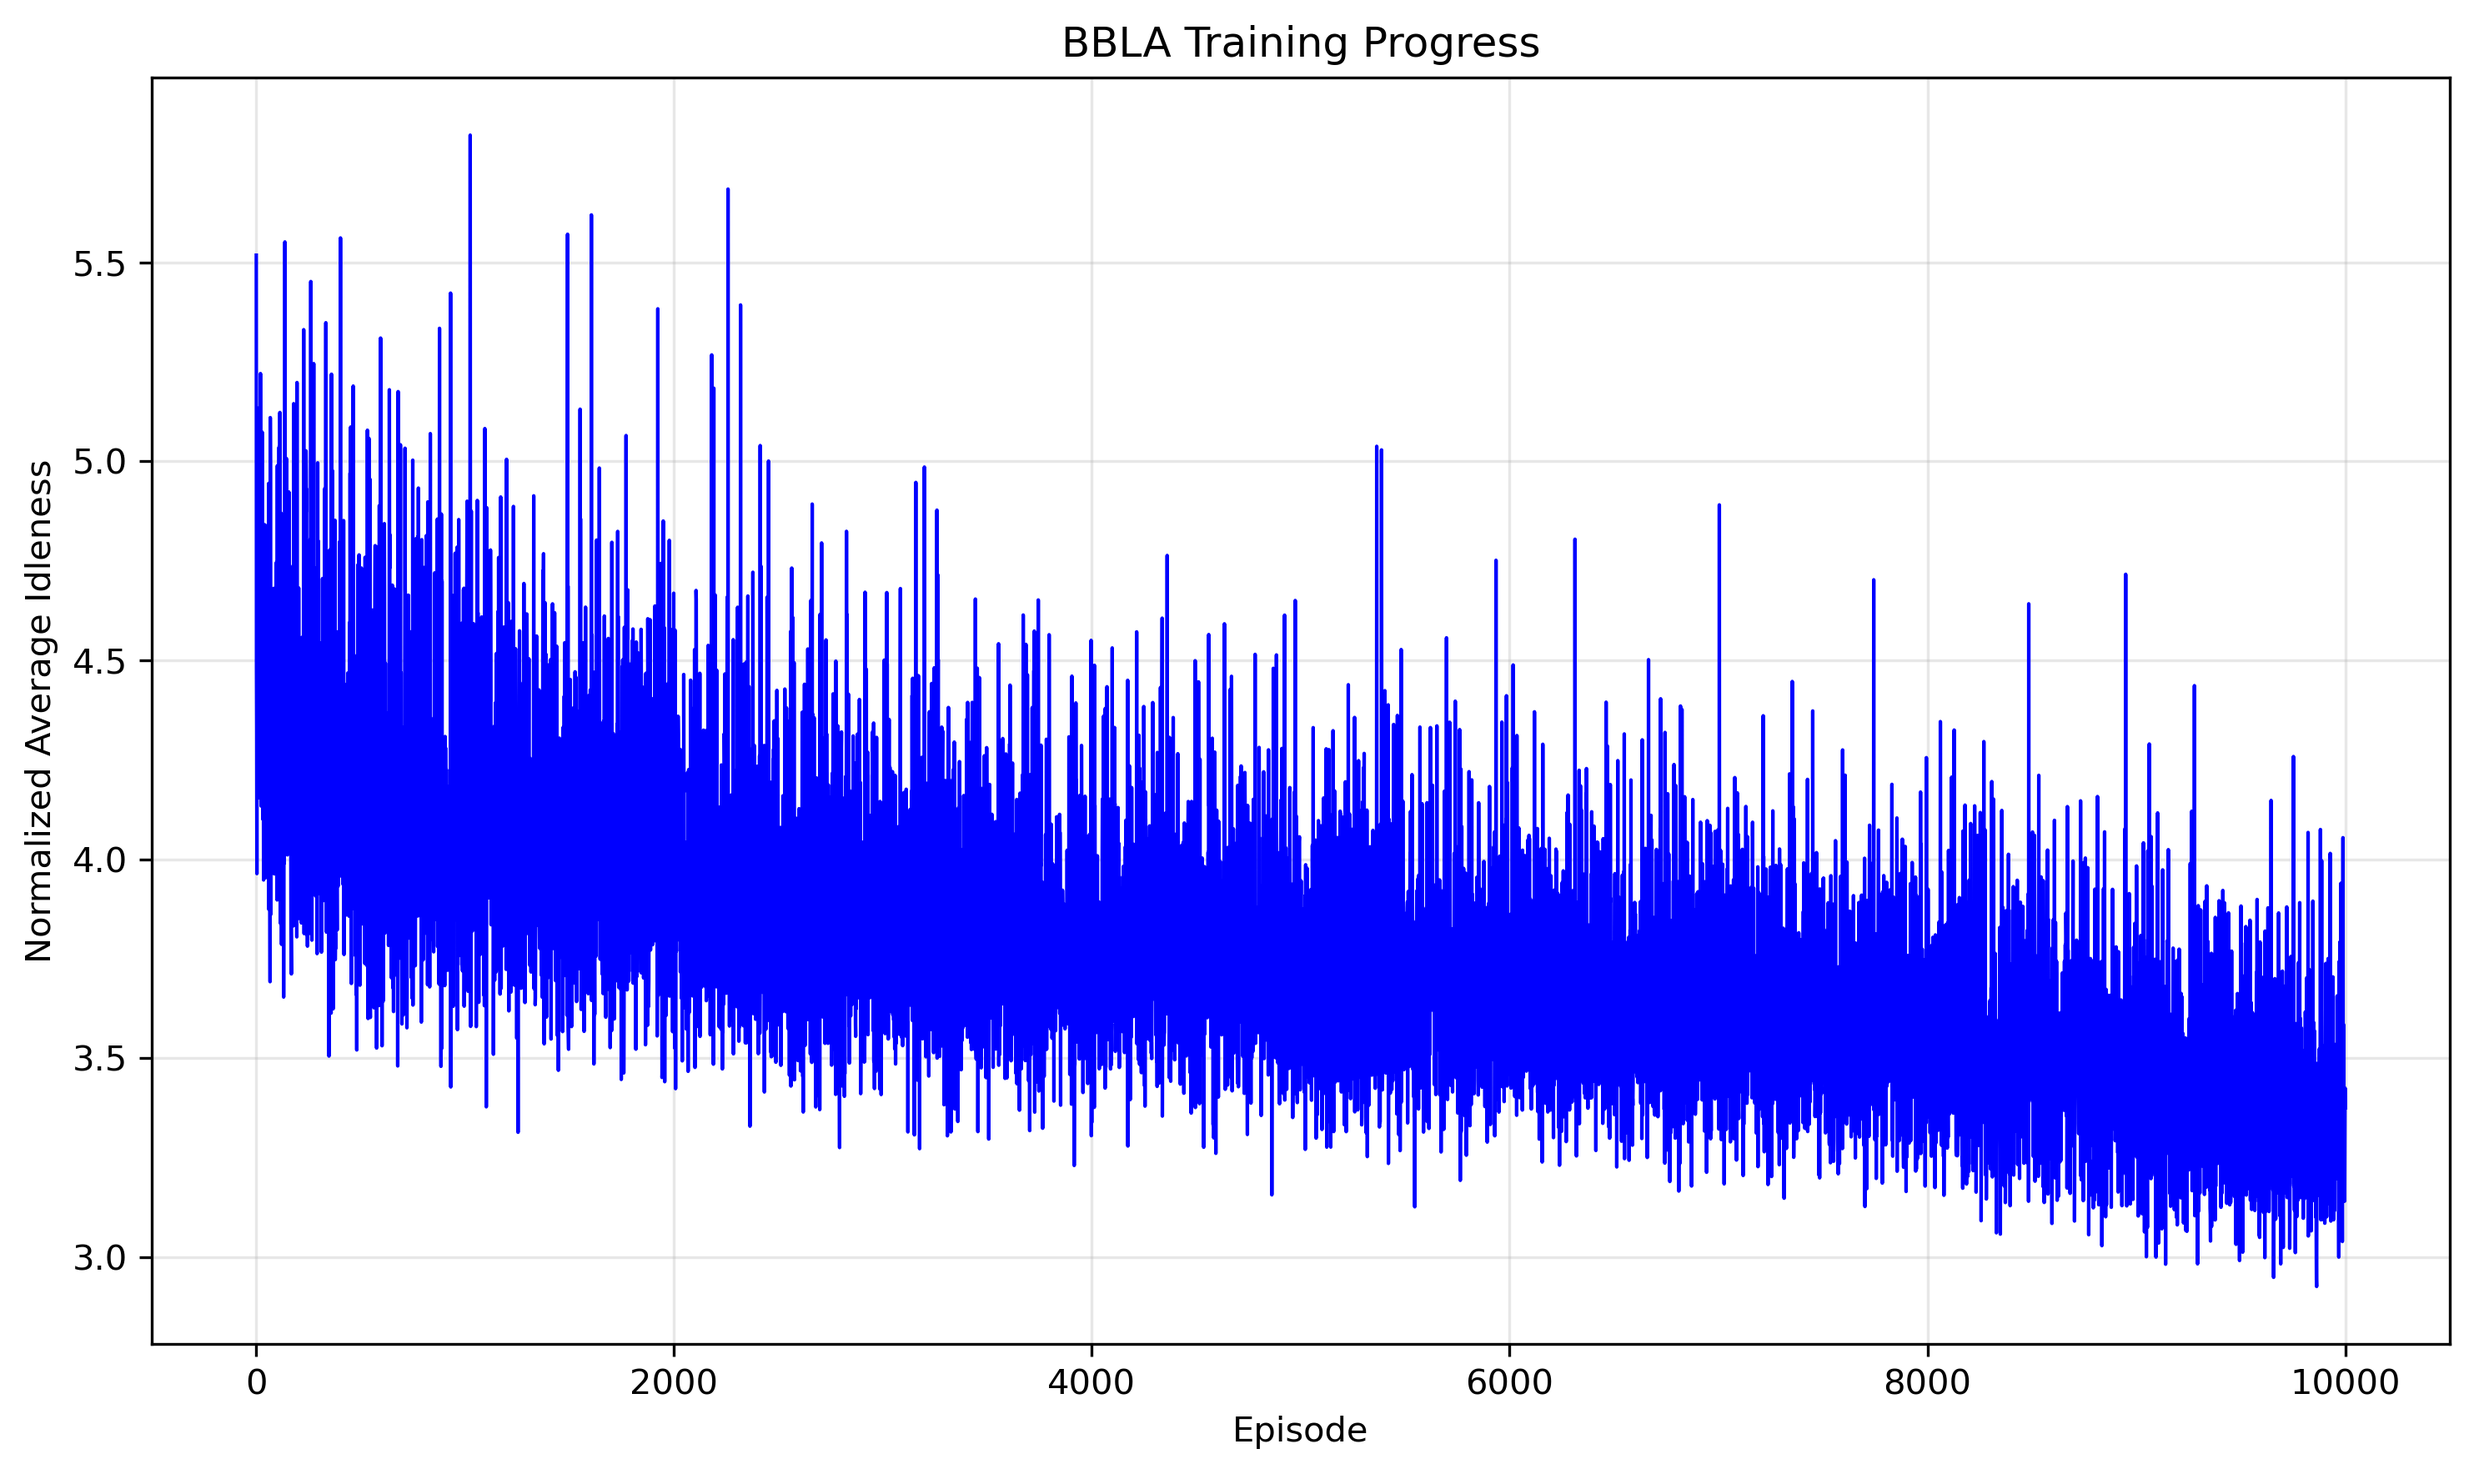
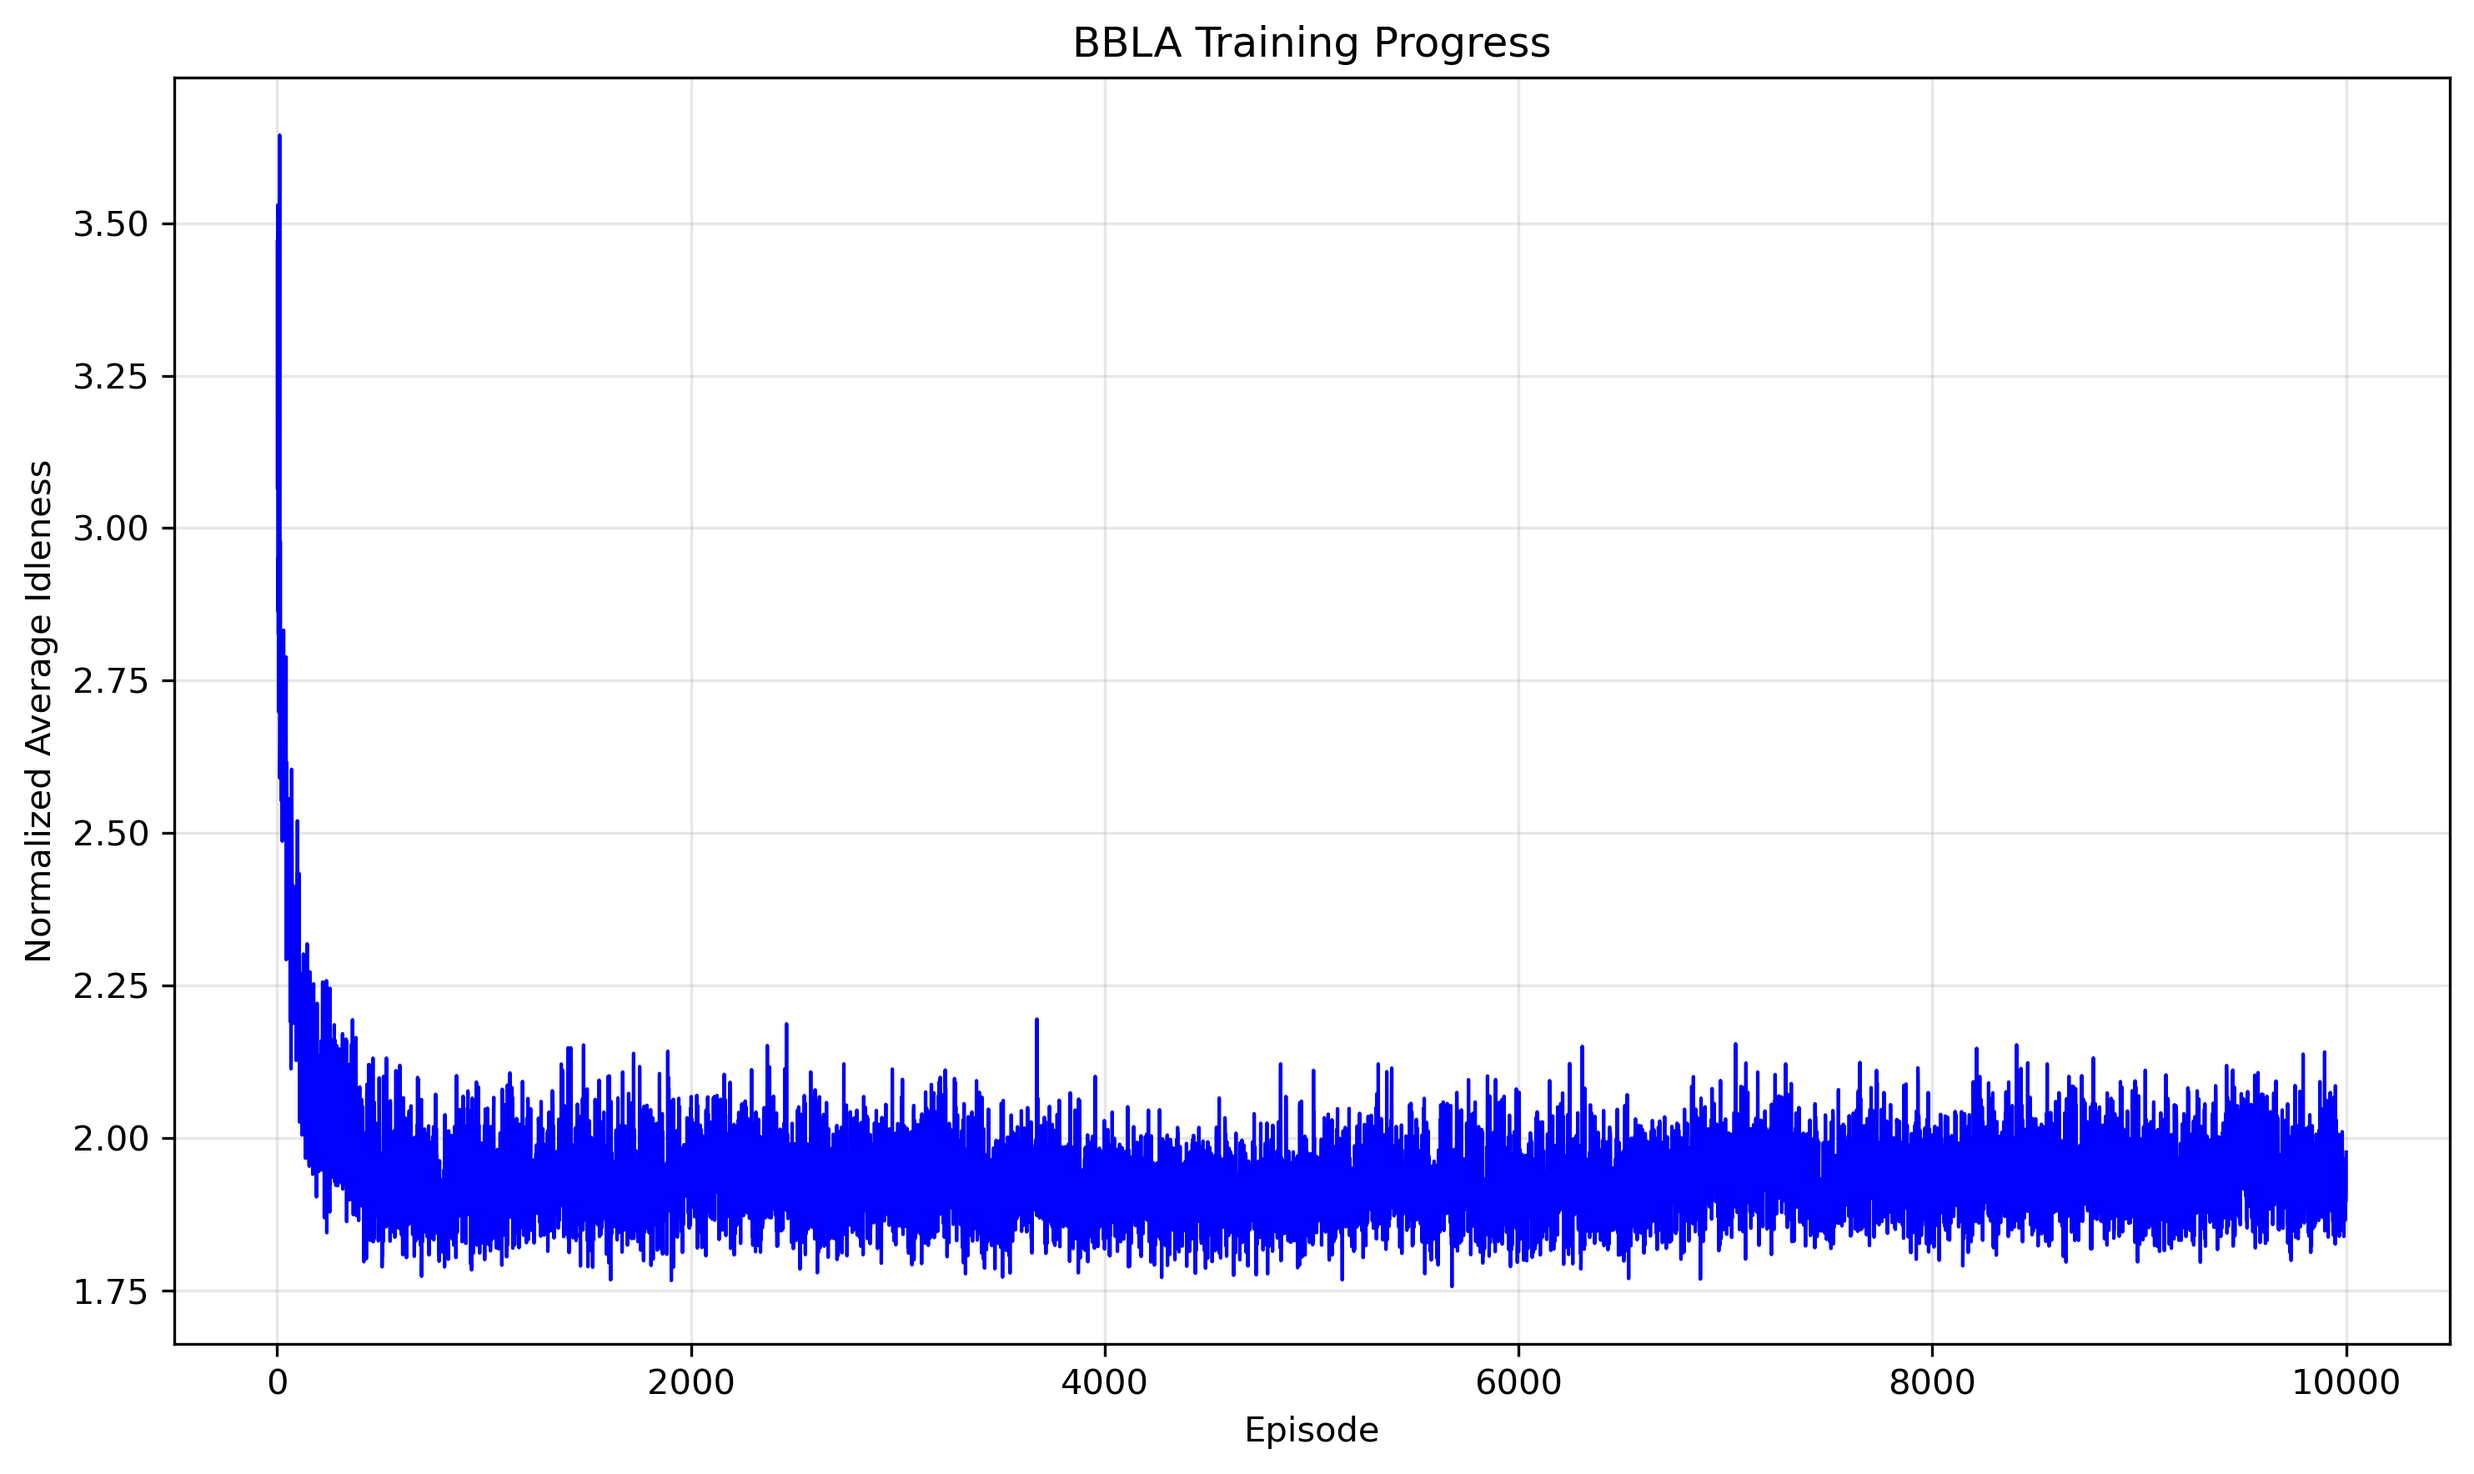
Successfully debugging BBLA_agent class and training process

diff --git a/BBLA_agent.py b/BBLA_agent.py
@@ -9,7 +9,7 @@ class BBLA_agent:
         self.map = map
         self.Q_table = dict()
         self.visit_count = dict() # is used to achieve decreasing alpha
-        self.last_state = (0,0,0,0) # last_node=0 implies the agent is in initial state  
+        self.last_state: tuple[int, int, int, int] = (0,0,0,0) # last_node=0 implies the agent is in initial state  
         self.last_action = int()
         self.gamma = gamma
         self.epsilon = epsilon
@@ -25,19 +25,36 @@ class BBLA_agent:
         neighbors = [n for n, _ in self.map.adj_list[self.position]]
         neighbor_Idleness = [node_Idleness[n] for n in neighbors]
         max_idle = max(neighbor_Idleness) if neighbor_Idleness else 0
+        max_nodes = [n for n, q in zip(neighbors, neighbor_Idleness) if q == max_idle]
+        max_node = random.choice(max_nodes)
         min_idle = min(neighbor_Idleness) if neighbor_Idleness else 0
-        return (self.position, self.last_state[0], max_idle, min_idle)
+        min_nodes = [n for n, q in zip(neighbors, neighbor_Idleness) if q == min_idle]
+        min_node = random.choice(min_nodes)
+        return (self.position, self.last_state[0], max_node, min_node)
 
     def update_Q(self, state, action:int, reward, next_state):
         self.visit_count[(state,action)] = self.visit_count.get((state,action), 0) + 1
         alpha = 1 / (2 + self.visit_count[(state,action)]/15) 
         last_Q = self.Q_table.get((state, action), 0)
+        
+        # adjust the discounted factor according to edge length
+        edge_weight = self.map.get_edge_length(state[0], action)
+        # for n, w in self.map.adj_list[state[0]]:
+        #     if n == action:
+        #         edge_weight = w
+        #         break
+        
+        if not edge_weight == 0:
+            discount_factor = self.gamma ** edge_weight
+        else:
+            discount_factor = self.gamma
+            
         # get the max Q value of next state
         next_neighbors = [n for n, _ in self.map.adj_list[action]]
         next_Qs = [self.Q_table.get((next_state, n), 0) for n in next_neighbors]
         max_next_Q = max(next_Qs) if next_Qs else 0
         # update Q value
-        new_Q = last_Q + alpha * (reward + self.gamma * max_next_Q - last_Q)
+        new_Q = last_Q + alpha * (reward + discount_factor * max_next_Q - last_Q)
         self.Q_table[(state, action)] = new_Q
     
     def select_action(self, state):
@@ -62,11 +79,11 @@ class BBLA_agent:
             state = self.get_state(node_Idleness)
             action = self.select_action(state)
 
-            edge_weight = None
-            for n, w in self.map.adj_list[self.position]:
-                if n == action:
-                    edge_weight = w
-                    break
+            edge_weight = self.map.get_edge_length(self.position, action)
+            # for n, w in self.map.adj_list[self.position]:
+            #     if n == action:
+            #         edge_weight = w
+            #         break
             self.on_edge = True
             self.edge_time_left = int(edge_weight) if edge_weight is not None else 0
             self.target_node = action
@@ -119,11 +136,23 @@ def main():
             for agent in BBLAagents:
                 result = agent.step(node_Idleness)
                 if result is not None:
+                    # reach a node
                     reward = node_Idleness[result]
                     node_Idleness[result] = 0
-                    next_state = agent.get_state(node_Idleness)
-                    agent.update_Q(agent.last_state, agent.last_action, reward, next_state)
-            
+                    current_state = agent.get_state(node_Idleness)
+                    agent.update_Q(agent.last_state, agent.last_action, reward, current_state)
+                    
+                    # choose target-node and move onto the edge immediately
+                    next_action = agent.select_action(current_state)
+                    edge_weight = agent.map.get_edge_length(agent.position, next_action)
+                    
+                    agent.on_edge = True
+                    agent.edge_time_left = int(edge_weight) if edge_weight is not None else 0
+                    agent.target_node = next_action
+                    
+                    agent.last_state = current_state
+                    agent.last_action = next_action
+
             # calculate the Instantaneous Graph Idleness of current time-step
             current_graph_idleness = sum(node_Idleness.values()) / len(node_Idleness)
             total_Idleness += current_graph_idleness

diff --git a/visualization.py b/visualization.py
@@ -76,6 +76,23 @@ def evaluate_and_visualize(agents, map_graph:Graph, algorithm_name, evaluation_s
             if result is not None:
                 # 到达节点，重置该节点idleness
                 node_idleness[result] = 0
+
+                # 添加与训练循环一致的逻辑以防止停顿
+                # 1. 获取在新节点上的状态
+                current_state = agent.get_state(node_idleness)
+                
+                # 2. 根据学习到的策略选择下一个动作
+                next_action = agent.select_action(current_state)
+                
+                # 3. 准备立即移动
+                edge_weight = agent.map.get_edge_length(agent.position, next_action)
+                agent.on_edge = True
+                agent.edge_time_left = int(edge_weight) if edge_weight is not None else 0
+                agent.target_node = next_action
+                
+                # 4. 保持智能体状态更新的一致性
+                agent.last_state = current_state
+                agent.last_action = next_action
     
     # 绘制Average Idleness图
     plt.figure(figsize=(12, 5))
